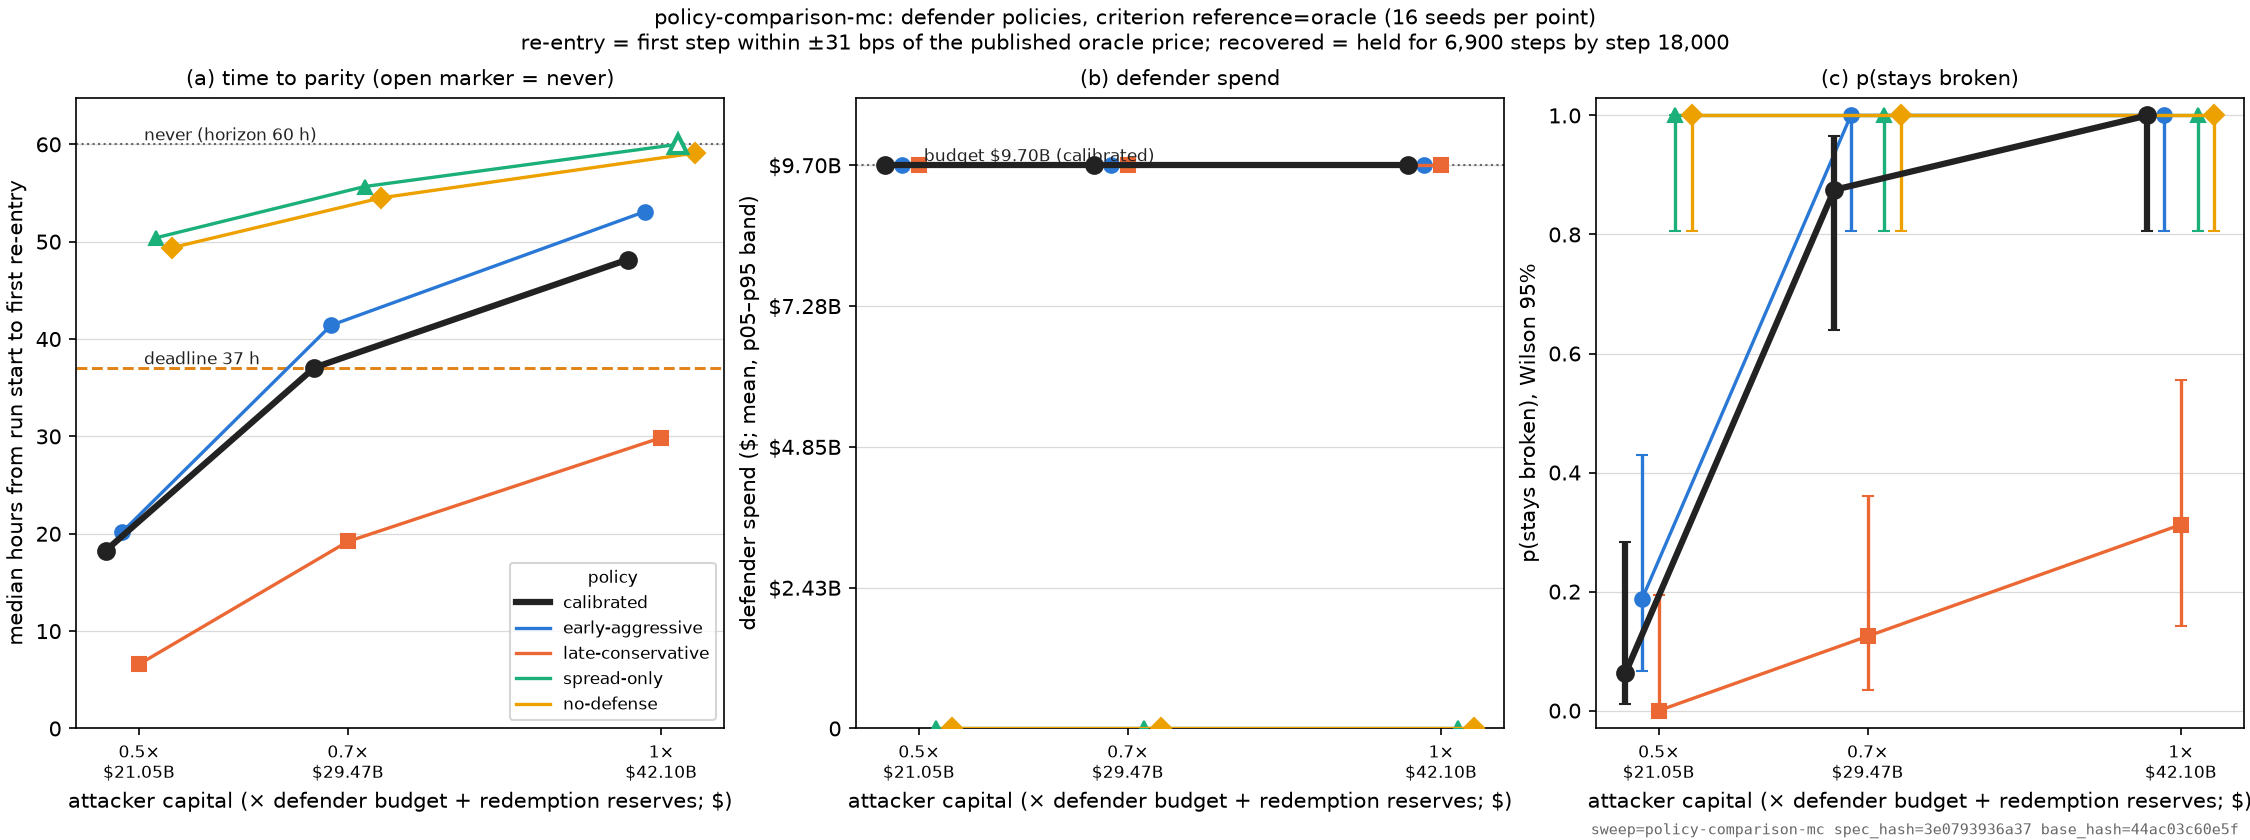
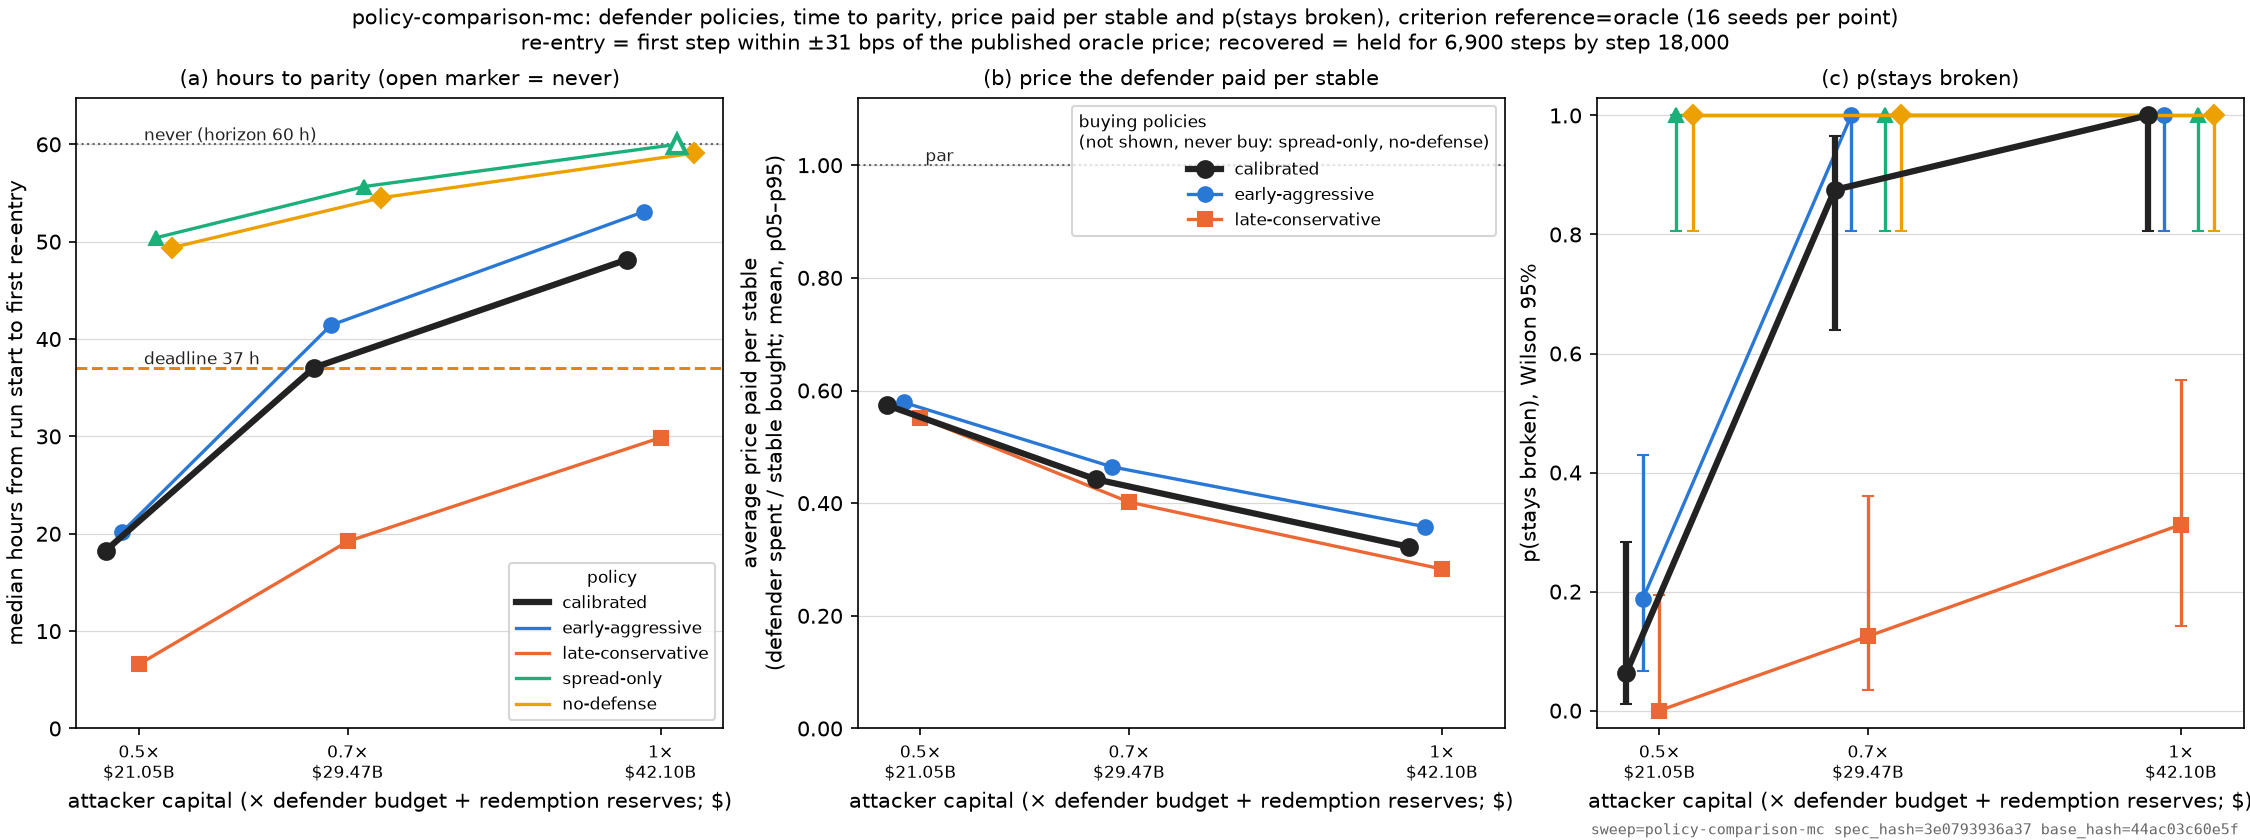
story 4.1: freeze: regenerated figures and manifest (code_hash a0ae9594), ADR-0032 proposed

diff --git a/docs/adr/0032-figure-pass-fit-records-and-freeze.md b/docs/adr/0032-figure-pass-fit-records-and-freeze.md
@@ -1,0 +1,77 @@
+# ADR-0032: Figure pass, fit records under the guard, and how the freeze commit is cited
+
+**Status:** Proposed
+**Date:** 2026-10-08
+**Deciders:** Tim Dove, Claude (dev manager)
+**Origin:** Story 4.1
+
+## Context
+
+Story 4.1 freezes the code behind the note's figures. The story left four choices open:
+what "mean with p05–p95" of a price paid per stable means, where fit records go and what
+the guard does with them, which figures make up the note's set, and which commit is "the
+freeze commit" when that commit's hash also has to be written into a file in the repo.
+
+## Decision
+
+1. **Price paid per stable, per run.** `plot_policy_comparison` panel (b) computes
+   `defender_spent / defender_bought_stable` for each run from `sweep.parquet`, then takes
+   the mean and p05–p95 over seeds. `mc.parquet` holds only per-cell aggregates, and
+   adding a ratio column to `experiments/mc.py` would be a change outside
+   `analysis/charts.py`. A run that bought nothing has no price (NaN). A policy with no
+   price in any cell (no-defense, spread-only) is left out of the panel and named in the
+   legend title. On the committed sweep the per-run ratio is the same in every seed of a
+   cell, so the mean of ratios equals the ratio of means that `pace_trigger.png` and the
+   Story 3.2 review quote (0.283 / 0.323 / 0.358 at 1.0×), and the band has no width.
+
+2. **Fit records** (`scripts/fit_record.py`). The schema is the one in the story context:
+   `{script, script_sha256, inputs: {scenario, scenario_hash, data, data_sha256, args},
+   result}`. `args` records only arguments that change the result (target, holder
+   parameters, grid, refine points), not `--workers` or `--output`. `result` includes
+   every point run, not just the pick. There is no timestamp, so a re-run on the same
+   inputs writes the same bytes (tested for `fit_depth` and `fit_reversion`). The depth fit
+   has `data: null` because its target is a published number, not a file. The holder fits
+   record the replay series both inside the scenario hash and as their own `data` entry.
+   `make figures` re-writes all four after drawing the figures. `check_figures.py --fits`
+   (default `docs/calibration/fits`) fails on an input mismatch or a missing input, and
+   warns on a changed script. A second `ok` line reports the fits.
+
+3. **The note's set is every committed figure except the four record-only ones.** AC 2
+   names exactly four record-only figures (`threshold_surface_par`, `threshold_surface`,
+   `time_to_parity`, `holder_exit`), so the README's note set has fifteen. The outline's
+   figure list in `docs/NOTE.md` named fewer, plus a "3.4 figures pending" row. To match
+   one-to-one (AC 4), the builder edited **only the figure-list table** in NOTE.md. It
+   added `validation_overlay_usdc_2023_tranches` (already Figure 1b in §3),
+   `threshold_surface_ou`, `budget_attack`, `pace_trigger`, `pace_ratio`, `lp_flight`,
+   `peg_trajectory_calibrated` and `peg_trajectory_baseline`, and moved `threshold_surface`
+   to the record. Rows the outline text does not use are marked †. **The dev manager may
+   move any of them to the record**, which means moving one row in each file;
+   `tests/test_note_figures.py` keeps the two in step.
+
+4. **The freeze commit is the figures commit; the hash is recorded in a later
+   documentation-only commit.** A commit cannot contain its own hash. The freeze commit
+   holds the code, the regenerated figures, `manifest.json` and the fit records. It is
+   tagged `v0.9-freeze`. The next commit writes that hash into the REPRODUCIBILITY
+   checklist and the story's Dev Agent Record and changes nothing under `src/`,
+   `scripts/`, `scenarios/` or `sweeps/`. `code_hash` and every source hash are therefore
+   the same at both commits, and `make figures-check` stays clean at both.
+
+## Consequences
+
+- Story 4.2's `scripts/check_note.py` can resolve a figure through `manifest.json` and a
+  fitted number through `docs/calibration/fits/*.json`.
+- Any change to a fit script after the freeze shows up as a guard warning until `make
+  figures` re-writes the records.
+- The README's "Price or clock" result still shows `time_to_parity.png`, which is now
+  record only. Its numbers are correct for that figure. Swapping it for
+  `time_to_parity_ou.png` is an editorial call left to the dev manager (Story 4.3 builds
+  the site from the note's set).
+
+## Alternatives considered
+
+- **Add a `defender_price_paid` metric to `mc.py`:** cleaner, but it would mean editing
+  `src/` outside `charts.py` at the freeze. Rejected.
+- **Move more figures to the record to match the outline's shorter list:** contradicts
+  AC 2's explicit list of four. Left to the dev manager instead.
+- **Tag the documentation commit:** the tag would then name a commit whose checklist cites
+  a different hash. Rejected; the tag and the recorded hash name the same commit.

diff --git a/docs/REPRODUCIBILITY.md b/docs/REPRODUCIBILITY.md
@@ -1,8 +1,9 @@
 # Reproducibility
 
 How to reproduce every committed figure and number from a clean checkout, how long it
-takes, and which hashes must match. Measured 2026-10-06 and updated 2026-10-07 for the OU surface; the committed figures were
-drawn from code commit `8c5fdf3`.
+takes, and which hashes must match. Measured 2026-10-06, updated 2026-10-07 for the OU surface and 2026-10-08 at the freeze; the
+committed figures were drawn from code commit `ae0f39f` (tag `v0.9-freeze` is the commit
+that adds them, same code hash).
 
 ## Machines
 
@@ -44,7 +45,7 @@ figures were not compared.
 six scenario figures itself (seconds each), draws all nineteen figures and writes
 `docs/figures/manifest.json`, then re-runs the four fits with `--write` into
 `docs/calibration/fits/` (`fit_depth`, `fit_holder` single entry and ladder B,
-`fit_reversion`; about 40 s on Seoul). Wall times:
+`fit_reversion`; 25 s on Seoul at 12 workers). Wall times:
 
 | Command | Figures | Runs (full) | Seoul full, 12 workers | Seoul quick, 12 workers | CI quick, 4 workers |
 |---|---|---:|---:|---:|---:|
@@ -60,9 +61,10 @@ six scenario figures itself (seconds each), draws all nineteen figures and write
 | `python -m depeg_sim.sweep sweeps/threshold-surface-ou-mc.yaml --mc` | `threshold_surface_ou.png`, `time_to_parity_ou.png` | 640 | 127 s | 17 s | 144 s |
 | `python -m depeg_sim.sweep sweeps/lp-flight-mc.yaml --mc` | `lp_flight.png` | 288 | 51 s | (not measured) | (not split out; whole job 1,305 s, run 37781242502) |
 | `python scripts/make_figures.py` | all 19 (runs the 6 scenario figures: `peg_trajectory_*.png`, `validation_overlay_usdc_2023.png`, `validation_overlay_usdc_2023_tranches.png`) | — | ≈ 10 s | (included) | (included) |
-| **`make figures`** / **`make figures-quick`** | all 19 | 3,977 | **893 s** | **147 s** | **1,155 s** |
+| **`make figures`** / **`make figures-quick`** | all 19 (+ 4 fit records) | 3,977 | **934 s** | **147 s** | **1,155 s** |
 
-Totals are from 2026-10-08 (Seoul `make figures` 893 s at code `6f2859d`, Story 3.8, which
+Totals are from 2026-10-08 (Seoul `make figures` 934 s at `ae0f39f`, Story 4.1, the freeze
+run, including the four fits, 25 s; 893 s at code `6f2859d`, Story 3.8, which
 adds the 288-run `lp-flight-mc` sweep, 51 s; Story 3.7's was 843 s at `b1352c8`; `make figures-quick` 147 s at `8c5fdf3`, not re-measured; CI run
 [37657607713](https://github.com/tjdove/corposium-research/actions/runs/37657607713),
 `figures-quick` 1,155 s). The per-sweep rows other than `threshold-surface-ou-mc` are the
@@ -109,7 +111,7 @@ mkdir -p output/tmp && export TMPDIR=$PWD/output/tmp
 | `soros-baseline` seed 42 `summary.json` | `tests/test_reference_recovery.py` | `pytest`; `sha256sum output/soros-baseline-42-2e09f431/summary.json` |
 
 At that commit: `code_hash` =
[3 lines of base64/hex data omitted]
 (Story 3.8 added two keys; without those lines it is the 3.5 value `f2428bdb…`),
 run directory `output/soros-baseline-42-2e09f431/`.
